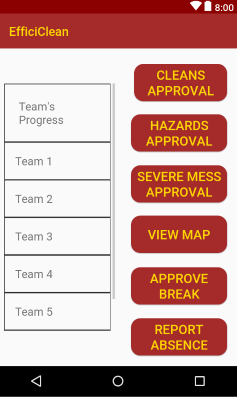
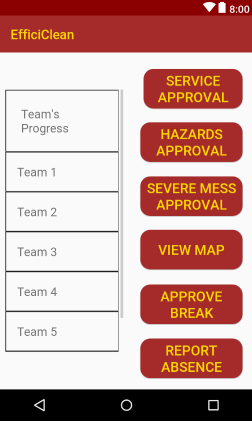
Change cleans approval to service approval

diff --git a/code/app/src/main/java/com/app/efficiclean/activities/SupervisorHome.java b/code/app/src/main/java/com/app/efficiclean/activities/SupervisorHome.java
@@ -29,7 +29,7 @@ public class SupervisorHome extends AppCompatActivity {
     private DatabaseReference mTeamRef;
     private Button btViewMap;
     private Button hazardApproval;
-    private Button cleansApproval;
+    private Button serviceApproval;
     private Button breakApproval;
     private Button approveSevereMess;
     private Button reportAbsences;
@@ -79,8 +79,8 @@ public class SupervisorHome extends AppCompatActivity {
             }
         });
 
-        cleansApproval = (Button) findViewById(com.app.efficiclean.R.id.btCleansApproval);
-        cleansApproval.setOnClickListener(new View.OnClickListener() {
+        serviceApproval = (Button) findViewById(com.app.efficiclean.R.id.btServiceApproval);
+        serviceApproval.setOnClickListener(new View.OnClickListener() {
             @Override
             public void onClick(View v) {
                 Intent i = new Intent(SupervisorHome.this, SupervisorApprovals.class);

diff --git a/code/app/src/main/java/com/app/efficiclean/activities/ServiceApproval.java b/code/app/src/main/java/com/app/efficiclean/activities/ServiceApproval.java
@@ -14,7 +14,7 @@ import com.app.efficiclean.classes.Team;
 import com.google.firebase.auth.FirebaseAuth;
 import com.google.firebase.database.*;
 
-public class CleanApproval extends AppCompatActivity {
+public class ServiceApproval extends AppCompatActivity {
 
     private String supervisorKey;
     private String hotelID;
@@ -78,7 +78,7 @@ public class CleanApproval extends AppCompatActivity {
                         } else if (disapprove.isChecked()) {
                             disapprovedSubmit();
                         } else {
-                            Toast.makeText(CleanApproval.this, "You haven't selected an option. Please check one of the boxes and try again.",
+                            Toast.makeText(ServiceApproval.this, "You haven't selected an option. Please check one of the boxes and try again.",
                                     Toast.LENGTH_LONG).show();
                         }
                     }

diff --git a/code/app/src/main/java/com/app/efficiclean/activities/SupervisorApprovals.java b/code/app/src/main/java/com/app/efficiclean/activities/SupervisorApprovals.java
@@ -126,7 +126,7 @@ public class SupervisorApprovals extends AppCompatActivity {
                 tr.setOnClickListener(new View.OnClickListener() {
                     @Override
                     public void onClick(View v) {
-                        Intent i = new Intent(SupervisorApprovals.this, CleanApproval.class);
+                        Intent i = new Intent(SupervisorApprovals.this, ServiceApproval.class);
                         extras.putString("roomNumber", approval.getJob().getRoomNumber());
                         extras.putString("approvalKey", key);
                         i.putExtras(extras);
